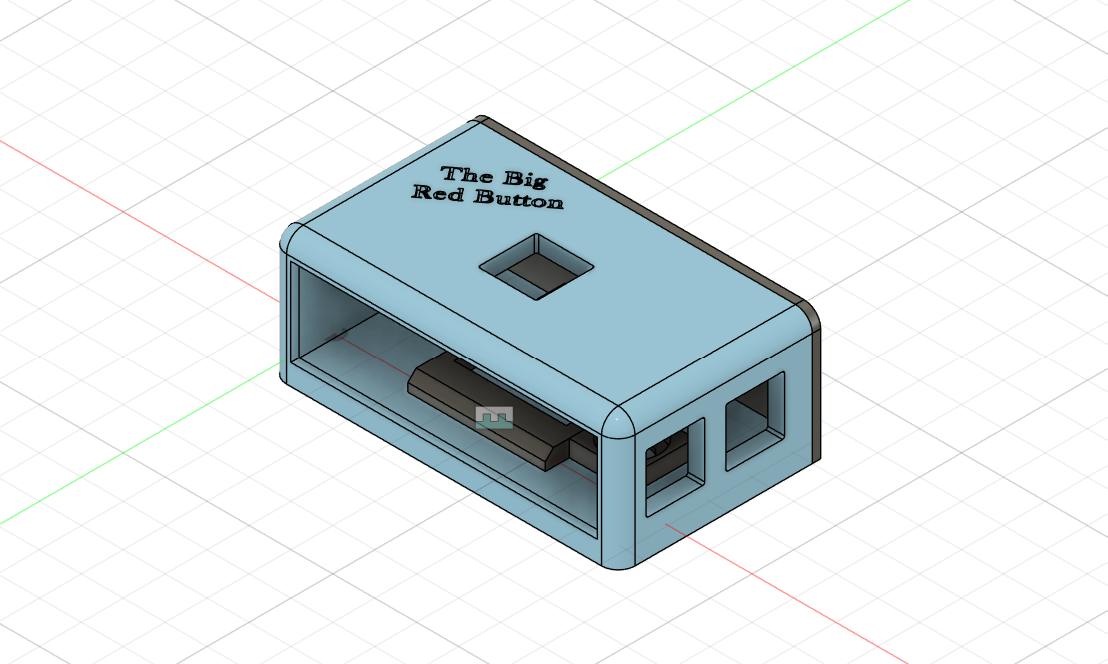
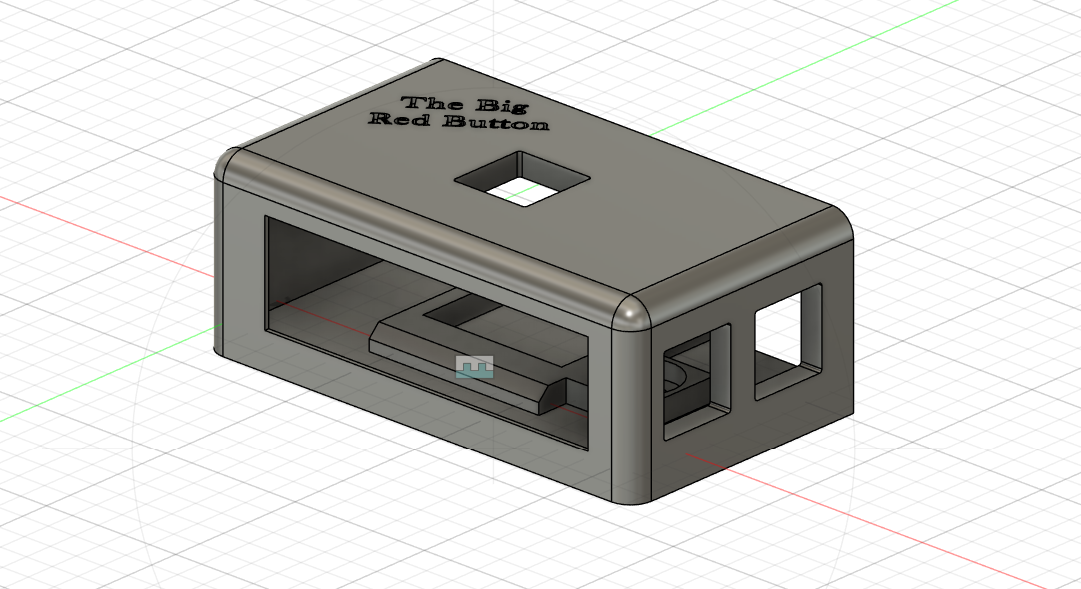
Updated images and readme

diff --git a/README.md b/README.md
@@ -28,7 +28,11 @@ I designed all my parts in Fusion.
 
 ![JUST CASE](<Images/Just Case.png>)
 
-This is the case I designed, with none of the additional components.
+This is the casing I designed.
+
+![JUST BACKPLATE](<ImagesJust Backplate.png>)
+
+This is the backplate I designed to fit on the back of the casing.
 
 ![Keycap](Images/Keycap.png)
 